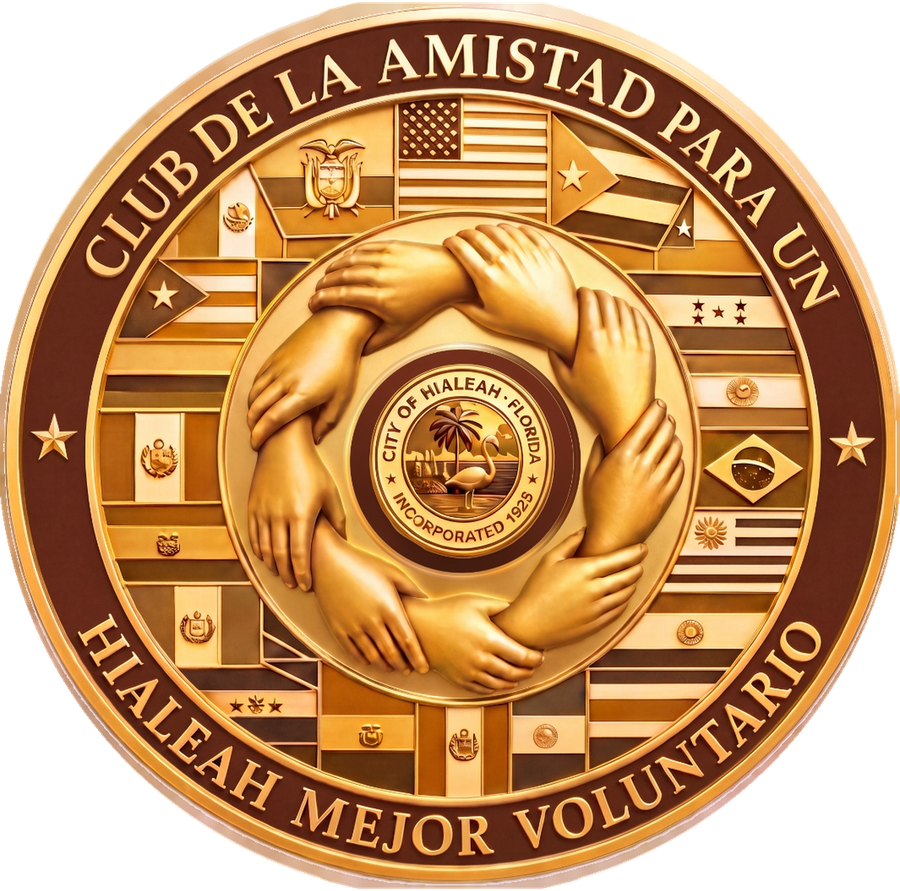
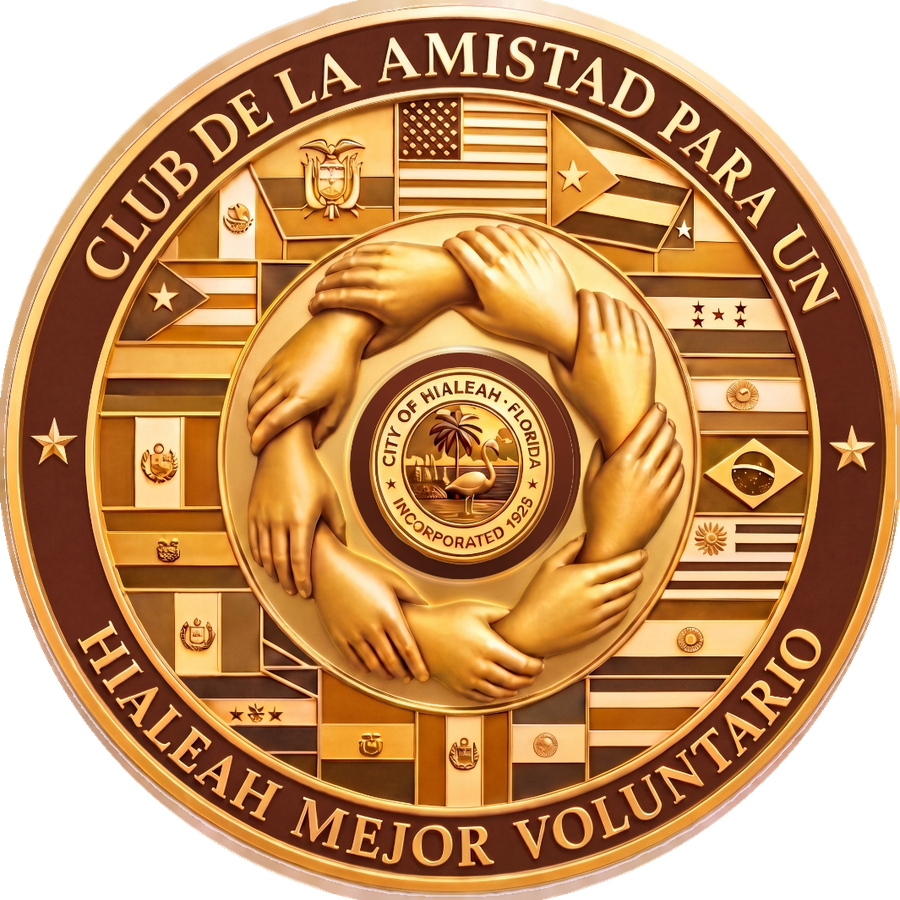
Use the fully circular medallion for the seal
Swaps in medallion-v10-circular as the source. Its disc measures 1065x1049 —
flush to the canvas on all four sides and 1.5% wider than tall — so it is
resampled straight to a square rather than padded, which corrects the slight
ellipse into a true circle. The asset is now 1:1, so the header and hero
intrinsic sizes go square to match.

Claude-Session: https://claude.ai/code/session_01GSKHvrwNtYBY6MFHfV94d7

diff --git a/src/app/(site)/page.tsx b/src/app/(site)/page.tsx
@@ -37,8 +37,8 @@ export default function HomePage() {
           <Image
             src="/assets/seal.png"
             alt="Club de la Amistad para un Hialeah Mejor Voluntario"
-            width={900} 
-            height={891}
+            width={900}
+            height={900}
             className={s.heroSeal}
             priority
           />

diff --git a/src/components/SiteHeader.tsx b/src/components/SiteHeader.tsx
@@ -36,7 +36,7 @@ export function SiteHeader() {
             src="/assets/seal.png"
             alt="Club de la Amistad seal"
             width={68}
-            height={67}
+            height={68}
             className={s.brandSeal}
             priority
           />
